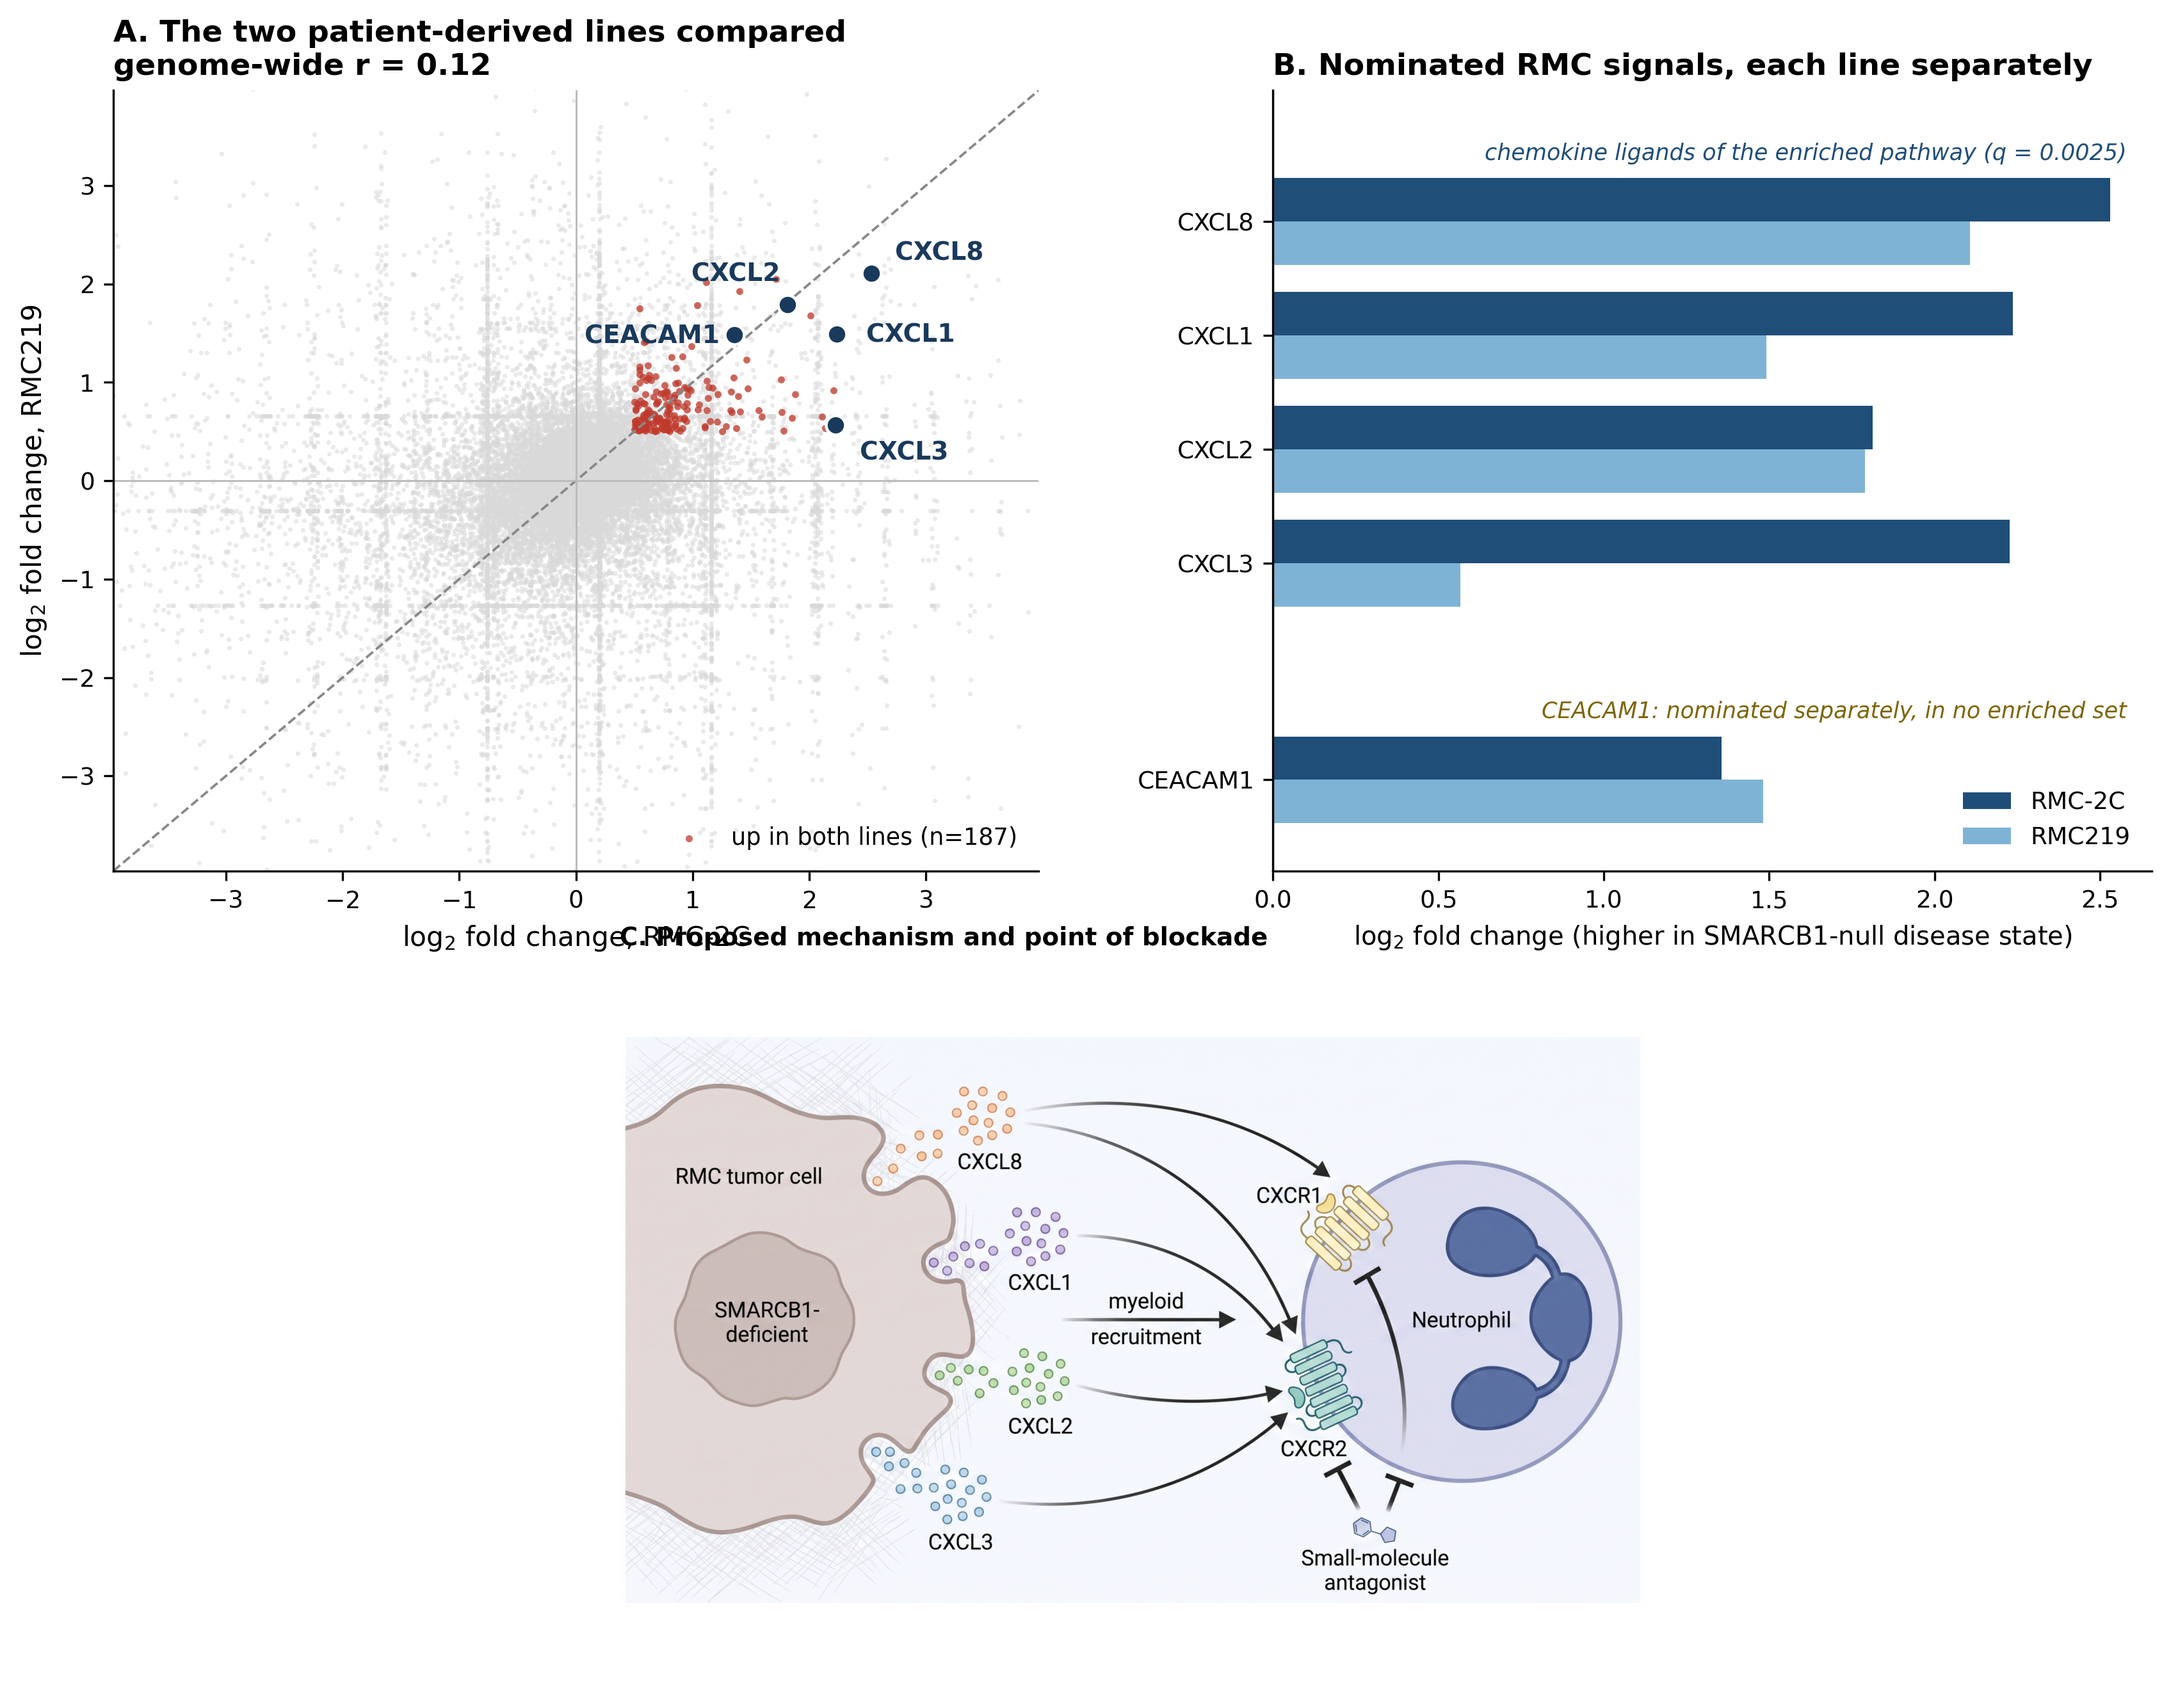
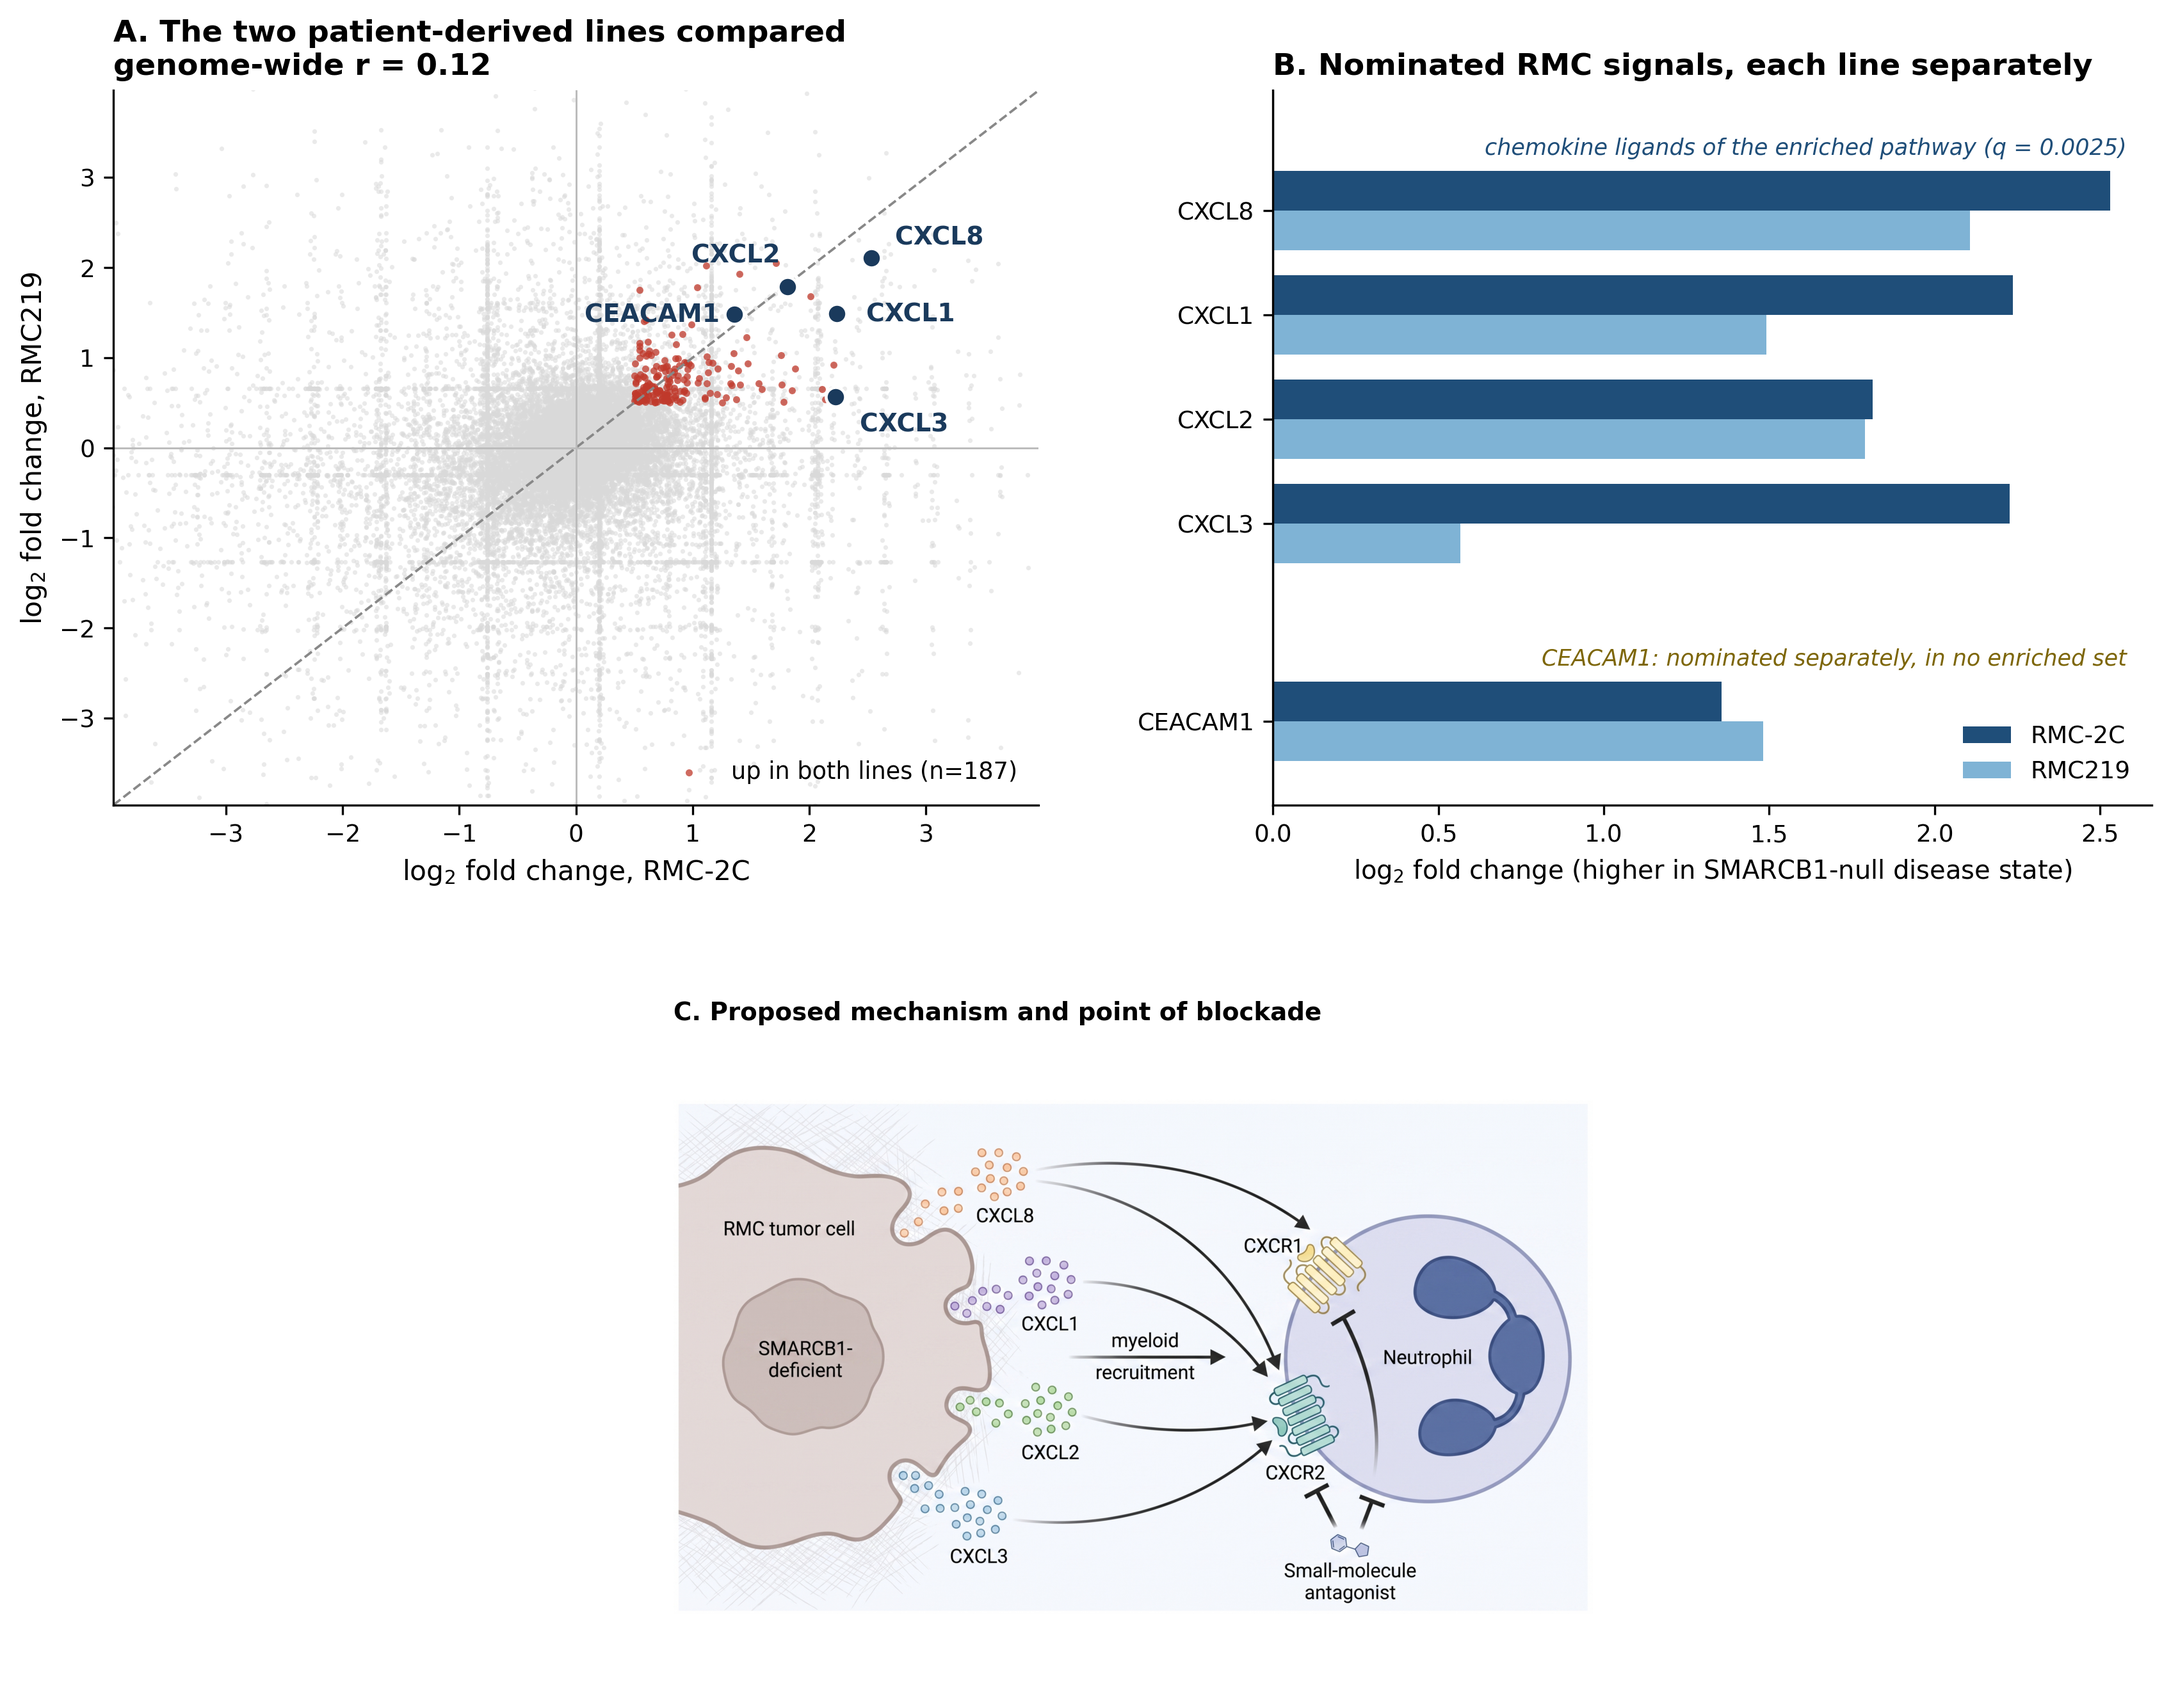
Clear the Figure 2 collision, make Word honour the Table 1 grid, and settle two sentences
Figure 2. Anchoring panel C to the top of its row put its title hard against
panel A's axis label, because the gap between the two rows was only what
hspace left. The rows are further apart now and the title sits immediately
above its schematic, which is what anchoring was for.

Table 1's column widths did nothing. python-docx sets w:tcW on each cell, and
the table already declared a fixed layout, but Word reads the column widths
from w:tblGrid, which still held six columns of one inch each. The grid is set
alongside the cells now: 0.32, 0.85, 2.05, 0.95, 1.45 and 1.28 inches, so the
number column no longer takes as much room as the drug column and the
antagonist row stops wrapping.

Two sentences that outlived the six-point score. The related-work paragraph
said GETgene-AI combines mutation frequency and differential expression "much
as the score used here does" - it does not, since genomic frequency informs
candidate selection and contributes no points; the sentence now says so. The
chronology paragraph still said "each dataset was then refitted", which the
Statistical Analysis, the Abstract and Figure 1 all contradict for the renal
medullary series; it now says the datasets were reanalyzed with study-specific
models fitted where sample-level data were available.

Body held at 3,998 words by trimming a forward reference and two phrases that
restated the Abstract. 101/101 audit, 24/24 supplement reconciliation, abstract
[…]

diff --git a/code/pipeline/48_build_manuscript_v29.py b/code/pipeline/48_build_manuscript_v29.py
@@ -318,13 +318,15 @@ P('This is a reassessment of a curated candidate set. The deposited scripts '
   'retained. Procedure is given in full in Supplementary Methods.')
 P('The order of decisions matters to how the score should be read. The '
   'candidate set, four scoring dimensions, component ranges and four ranking '
-  'criteria were fixed first; each dataset was then refitted; auditing the '
-  'genomic dimension against the cohorts it named came last, and removed it '
-  'from the score (Supplementary Table S4, with the reasoning in the '
-  'Discussion). The three remaining dimensions, their ranges and the four '
+  'criteria were fixed first; the datasets were then reanalyzed, with '
+  'study-specific models fitted where sample-level data were available; '
+  'auditing the '
+  'genomic dimension against the cohorts it named came last and removed it '
+  'from the score (Supplementary Table S4). The three remaining dimensions, '
+  'their ranges and the four '
   'criteria are unchanged, including the requirement of 4 or better, which '
-  'was not rescaled when the maximum fell from 9 to 6 and is therefore a '
-  'stricter bar than it was.')
+  'was not rescaled when the maximum fell from 9 to 6 and is a stricter bar '
+  'than it was.')
 P('Somatic alteration frequencies for the three positive controls came from '
   'the TCGA Pan-Cancer Atlas 2018 through cBioPortal [1\u20133], with cohort '
   'sizes in Figure 1. The Cancer Genome Atlas has no neuroendocrine prostate '
@@ -490,9 +492,8 @@ P(f"The pipeline produced {F['n_drug_hypotheses']} drug-cancer hypotheses "
   f"{F['tiers'].get('Strong', 0)} reach the Strong tier, "
   f"{F['tiers'].get('Moderate', 0)} Moderate and "
   f"{F['tiers'].get('Exploratory', 0)} Exploratory. Four sarcomatoid "
-  f"hypotheses are scored out of 4 rather than 6 for the reason given below "
-  f"and carry no evidence tier, and the biomarker observation carries no "
-  f"score.")
+  f"hypotheses are scored out of 4 rather than 6 and carry no tier, and the "
+  f"biomarker observation carries no score.")
 
 H('Positive Controls', 11.5, 10, level=2)
 P(f"All {F['arm_control']['proposed']} positive-control associations recover a "
@@ -652,13 +653,14 @@ P(f"Refitting cost two candidates, by different routes. Somatostatin "
 
 P('Computational repurposing from public expression data is established [56]. '
   'GETgene-AI combines mutation frequency, differential expression and '
-  'drug-target annotation much as the score used here does [57]; '
+  'drug-target annotation [57]; this workflow uses the same kinds of '
+  'information in candidate selection, but its score excludes genomic '
+  'frequency; '
   'Pathway2Targets prioritizes targets by the pathways they belong to, the '
-  'signal our eighteen gene sets supply [59]; and signature reversion against '
-  'perturbation libraries found the choice of differential-expression method '
-  'itself changing which candidates emerge [58], as refitting did here. Those '
-  'methods are benchmarked on common cancers with cohorts large enough to '
-  'support them. We applied the same class of method where no such cohort '
+  'signal our eighteen gene sets supply [59]; and signature reversion found '
+  'the choice of differential-expression method itself changing which '
+  'candidates emerge [58], as refitting did here. Those methods are '
+  'benchmarked on cohorts large enough to support them. We applied the same class of method where no such cohort '
   'exists, with positive controls run through the same pipeline.')
 P(f"Recovery of the "
   f"{F['n_previously_proposed']} previously proposed priorities is a positive "
@@ -1070,6 +1072,11 @@ def add_row(cells, bold=False, size=8.0):
 # the number column was taking as much width as the drug column, forcing the
 # long antagonist row to wrap; python-docx honours a width only with autofit
 # off and only when it is set on every cell
+# Word takes the column widths from tblGrid when the layout is fixed, so
+# setting them on the cells alone left every column at the default inch
+_grid = t._tbl.find(qn('w:tblGrid'))
+for _gc, _w in zip(_grid.findall(qn('w:gridCol')), COL_IN):
+    _gc.set(qn('w:w'), str(int(round(_w * 1440))))
 for _row in t.rows:
     for _c, _w in zip(_row.cells, COL_IN):
         _c.width = Inches(_w)

diff --git a/code/pipeline/40_figure2_rmc_v29.py b/code/pipeline/40_figure2_rmc_v29.py
@@ -44,8 +44,8 @@ present = [g for g in AXIS if g in d.index]
 
 fig = plt.figure(figsize=(11.6, 9.4))
 gs = gridspec.GridSpec(2, 2, width_ratios=[1.0, 0.95],
-                       height_ratios=[1.0, 0.92],
-                       wspace=0.26, hspace=0.12,
+                       height_ratios=[1.0, 0.90],
+                       wspace=0.26, hspace=0.34,
                        left=0.07, right=0.985, top=0.94, bottom=0.06)
 
 # ---------------- A: agreement between the two cell lines ------------------
